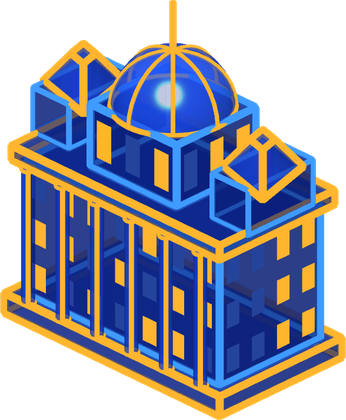
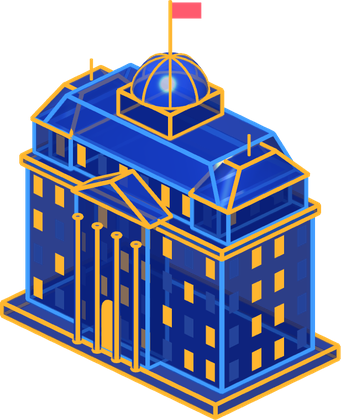
Plus « jeu » (5) : le Palace et le Prestige redessinés (#233)
Claude-Session: https://claude.ai/code/session_01VVBMmn3XW4qQHJryVXWiii

diff --git a/tools/batiments/batiments.html b/tools/batiments/batiments.html
@@ -25,7 +25,7 @@ function fenetres(g,w,h,d,x,y,z,cols,rangs,o){ o=o||{}; const fw=(o.fw||0.5)*w/c
     const px=x-w/2+(c+0.5)*w/cols, py=y+(r+0.5)*h/rangs; const f=new THREE.Mesh(new THREE.PlaneGeometry(fw,fh),mat); f.position.set(px,py,z+d/2+0.012); g.add(f); }
   const cz=Math.max(1,Math.round(cols*d/w));
   for(let r=0;r<rangs;r++) for(let c=0;c<cz;c++){ const on=((r*5+c*4+1+(o.g||0))%5)<2; const f=new THREE.Mesh(new THREE.PlaneGeometry((o.fw||0.5)*d/cz,fh),lum(on?(o.c||OR):0x24439A)); f.rotation.y=Math.PI/2; f.position.set(x+w/2+0.012,y+(r+0.5)*h/rangs,z-d/2+(c+0.5)*d/cz); g.add(f); } }
-function toit4(g,w,d,h,x,y,z,haut,o){ o=o||{}; const geo=new THREE.CylinderGeometry((haut||0.001)*Math.SQRT1_2,Math.SQRT1_2,h,4,1); const m=new THREE.Mesh(geo,verre(o.verre||0x1B3F9A,o.op||0.7)); m.rotation.y=Math.PI/4; m.scale.set(w,1,d); m.position.set(x,y+h/2,z); g.add(m); aretes(g,m,o.c,o.t); }
+function toit4(g,w,d,h,x,y,z,haut,o){ o=o||{}; const geo=new THREE.CylinderGeometry((haut||0.001)*Math.SQRT1_2,Math.SQRT1_2,h,4,1); geo.rotateY(Math.PI/4); const m=new THREE.Mesh(geo,verre(o.verre||0x1B3F9A,o.op||0.7)); m.scale.set(w,1,d); m.position.set(x,y+h/2,z); g.add(m); aretes(g,m,o.c,o.t); }
 function pignon(g,w,d,h,x,y,z,o){ o=o||{}; const s=new THREE.Shape(); s.moveTo(-w/2,0); s.lineTo(w/2,0); s.lineTo(0,h); s.closePath(); const geo=new THREE.ExtrudeGeometry(s,{depth:d,bevelEnabled:false}); geo.translate(0,0,-d/2); const m=new THREE.Mesh(geo,verre(0x1B3F9A,0.7)); m.position.set(x,y,z); g.add(m); aretes(g,m,o.c,o.t); }
 function colonne(g,r,h,x,y,z,c){ const m=new THREE.Mesh(new THREE.CylinderGeometry(r,r,h,10),verre(0x1E4AB0,0.75)); m.position.set(x,y+h/2,z); g.add(m); for(const yy of [y,y+h]){ const a=new THREE.Mesh(new THREE.TorusGeometry(r,0.02,6,16),lum(c||NEON)); a.rotation.x=Math.PI/2; a.position.set(x,yy,z); g.add(a); } trait(g,new THREE.Vector3(x+r*0.7,y,z+r*0.7),new THREE.Vector3(x+r*0.7,y+h,z+r*0.7),c||NEON,0.018); }
 function socle(g,r,c){ if(Q.has('alpha')) return; const m=new THREE.Mesh(new THREE.CylinderGeometry(r,r*1.04,0.16,48),new THREE.MeshPhongMaterial({color:0x0C1B4D,emissive:0x0A1A55,emissiveIntensity:0.6,shininess:60})); m.position.y=-0.08; g.add(m);
@@ -40,23 +40,33 @@ const BATIS=[
  g=>{ socle(g,1.6); bloc(g,1.7,2.3,1.3,0,0,0); for(let i=1;i<5;i++){ const y=i*2.3/5; trait(g,V(-.85,y,.65),V(.85,y,.65),NEON,0.016); trait(g,V(.85,y,.65),V(.85,y,-.65),NEON,0.016); } fenetres(g,1.7,2.3,1.3,0,0,0,4,5,{fw:.5,fh:.5}); toit4(g,1.78,1.38,.5,0,2.3,0,.72); bloc(g,.16,.3,.16,-.45,2.8,0,{t:0.016}); bloc(g,.16,.3,.16,.45,2.8,0,{t:0.016}); },
  g=>{ socle(g,1.6); bloc(g,1.25,3.3,1.25,0,0,0); fenetres(g,1.25,3.3,1.25,0,0,0,3,9,{fw:.62,fh:.55,g:2}); bloc(g,.9,.7,.9,0,3.3,0); fenetres(g,.9,.7,.9,0,3.3,0,2,2,{fw:.6,fh:.5}); trait(g,V(0,4,0),V(0,4.8,0),NEON,0.025); const b=new THREE.Mesh(new THREE.SphereGeometry(.07,10,10),lum(0xFF5A6E)); b.position.set(0,4.82,0); g.add(b); },
  g=>{ socle(g,1.7); bloc(g,1.5,2.2,1.5,0,0,0); fenetres(g,1.5,2.2,1.5,0,0,0,4,7,{fw:.6,fh:.5,g:1}); bloc(g,1.15,1.9,1.15,0,2.2,0); fenetres(g,1.15,1.9,1.15,0,2.2,0,3,6,{fw:.6,fh:.5,g:3}); bloc(g,.8,1.3,.8,0,4.1,0); fenetres(g,.8,1.3,.8,0,4.1,0,2,4,{fw:.6,fh:.5,g:2}); toit4(g,.8,.8,.5,0,5.4,0,.25,{c:OR}); trait(g,V(0,5.9,0),V(0,6.9,0),OR,0.028); },
- g=>{ socle(g,2.0,OR); bloc(g,3.0,.22,1.7,0,0,0,{c:OR}); bloc(g,2.7,1.5,1.4,0,.22,0); fenetres(g,2.7,1.5,1.4,0,.22,0,7,3,{fw:.5,fh:.55}); for(let i=0;i<6;i++) colonne(g,.07,1.5,-1.2+i*.48,.22,.82,OR);
-      bloc(g,2.9,.16,1.6,0,1.72,0,{c:OR}); bloc(g,1.2,.7,1.1,0,1.88,0); fenetres(g,1.2,.7,1.1,0,1.88,0,3,1,{fw:.5,fh:.6});
-      const d=new THREE.Mesh(new THREE.SphereGeometry(.62,24,12,0,Math.PI*2,0,Math.PI/2),verre(0x2456C8,0.7)); d.position.set(0,2.58,0); g.add(d); for(let k=0;k<8;k++){ const a=k*Math.PI/4; const pts=[]; for(let s=0;s<=8;s++){ const t=s/8*Math.PI/2; pts.push(V(Math.cos(a)*.62*Math.sin(t),2.58+.62*Math.cos(t),Math.sin(a)*.62*Math.sin(t))); } for(let s=0;s<8;s++) trait(g,pts[s],pts[s+1],OR,0.016); }
-      const an=new THREE.Mesh(new THREE.TorusGeometry(.62,.03,8,48),lum(OR)); an.rotation.x=Math.PI/2; an.position.y=2.58; g.add(an); trait(g,V(0,3.2,0),V(0,3.75,0),OR,0.025);
-      for(const x of [-1.25,1.25]){ bloc(g,.5,.5,.9,x,1.88,0,{t:0.02}); toit4(g,.56,.96,.3,x,2.38,0,.3,{c:OR}); } },
- g=>{ socle(g,2.1,OR); const arc=[0xFF4D6D,0xFF9F1C,0xFFE14D,0x3DDC84,0x2F9BFF,0x8E5CFF,0xFF4DC4];
-      bloc(g,3.2,.2,2.2,0,0,0,{c:arc[0]}); bloc(g,2.9,.2,1.9,0,.2,0,{c:arc[1]}); bloc(g,2.6,.2,1.6,0,.4,0,{c:arc[2]});
-      bloc(g,1.9,1.5,1.0,0,.6,0,{op:.5,c:arc[4]}); fenetres(g,1.9,1.5,1.0,0,.6,0,5,1,{fw:.3,fh:.75});
-      for(let i=0;i<7;i++) colonne(g,.085,1.5,-1.14+i*.38,.6,.68,arc[i]); for(let i=0;i<3;i++){ colonne(g,.085,1.5,1.2,.6,.34-i*.34,arc[(i+3)%7]); }
-      bloc(g,2.7,.2,1.7,0,2.1,0,{c:arc[5]}); pignon(g,2.7,1.7,.7,0,2.3,0,{c:arc[6]});
-      const l=new THREE.Mesh(new THREE.TorusGeometry(.26,.035,8,32,Math.PI*1.5),lum(OR)); l.position.set(0,2.62,.86); l.rotation.z=Math.PI*1.25; g.add(l); const s=new THREE.Mesh(new THREE.OctahedronGeometry(.16),lum(OR)); s.position.set(0,3.3,0); g.add(s); trait(g,V(0,3,0),V(0,3.2,0),OR,0.02); },
+ g=>{ socle(g,2.0,OR); const F=0.017;   // le Palace : un grand hôtel, avant-corps à colonnes, mansarde, dôme et drapeau (traits fins)
+      bloc(g,3.3,.16,1.9,0,0,0,{c:OR,t:F}); bloc(g,3.0,1.7,1.4,0,.16,0,{t:0.02}); fenetres(g,3.0,1.7,1.4,0,.16,0,9,4,{fw:.42,fh:.55,g:1});
+      bloc(g,3.1,.1,1.5,0,1.86,0,{c:OR,t:F});
+      bloc(g,1.1,1.8,.3,0,.16,.75,{t:F,op:.5}); for(let i=0;i<4;i++) colonne(g,.045,1.55,-.45+i*.3,.16,.98,OR);
+      const porte=new THREE.Mesh(new THREE.PlaneGeometry(.3,.5),lum(OR)); porte.position.set(0,.41,.915); g.add(porte); const arche=new THREE.Mesh(new THREE.CircleGeometry(.15,16,0,Math.PI),lum(OR)); arche.position.set(0,.66,.915); g.add(arche);
+      pignon(g,1.2,.34,.34,0,1.96,.75,{c:OR,t:F});
+      bloc(g,2.6,.42,1.1,0,1.96,0,{t:F}); fenetres(g,2.6,.42,1.1,0,1.96,0,8,1,{fw:.4,fh:.6,g:2}); toit4(g,2.7,1.2,.4,0,2.38,0,.82,{t:F});
+      bloc(g,.8,.3,.8,0,2.78,0,{t:F,c:OR});
+      const d=new THREE.Mesh(new THREE.SphereGeometry(.42,24,12,0,Math.PI*2,0,Math.PI/2),verre(0x2456C8,0.7)); d.position.set(0,3.08,0); g.add(d); for(let k=0;k<8;k++){ const a=k*Math.PI/4; const pts=[]; for(let q=0;q<=8;q++){ const t=q/8*Math.PI/2; pts.push(V(Math.cos(a)*.42*Math.sin(t),3.08+.42*Math.cos(t),Math.sin(a)*.42*Math.sin(t))); } for(let q=0;q<8;q++) trait(g,pts[q],pts[q+1],OR,0.011); }
+      const an=new THREE.Mesh(new THREE.TorusGeometry(.42,.02,8,48),lum(OR)); an.rotation.x=Math.PI/2; an.position.y=3.08; g.add(an);
+      trait(g,V(0,3.5,0),V(0,4.2,0),OR,0.014); const dr=new THREE.Mesh(new THREE.PlaneGeometry(.34,.2),new THREE.MeshBasicMaterial({color:0xFF5A6E,side:THREE.DoubleSide})); dr.position.set(.12,4.08,-.12); dr.rotation.y=Math.PI/4; g.add(dr);
+      for(const x of [-1.22,1.22]){ bloc(g,.56,.42,1.2,x,1.96,0,{t:F}); toit4(g,.6,1.24,.36,x,2.38,0,.45,{c:OR,t:F}); trait(g,V(x,2.74,0),V(x,3.0,0),OR,0.012); } },
+ g=>{ socle(g,2.1,OR); const F=0.018, arc=[0xFF4D6D,0xFF9F1C,0xFFE14D,0x3DDC84,0x2F9BFF,0x8E5CFF,0xFF4DC4];   // le Prestige : un temple aux néons arc-en-ciel, couronne de laurier d'or
+      bloc(g,3.3,.16,2.3,0,0,0,{c:arc[0],t:F}); bloc(g,3.0,.16,2.0,0,.16,0,{c:arc[1],t:F}); bloc(g,2.7,.16,1.7,0,.32,0,{c:arc[2],t:F});
+      bloc(g,1.9,1.6,1.0,0,.48,0,{op:.5,c:arc[4],t:F}); fenetres(g,1.9,1.6,1.0,0,.48,0,5,1,{fw:.28,fh:.7});
+      const porte=new THREE.Mesh(new THREE.PlaneGeometry(.34,1.0),lum(OR)); porte.position.set(0,.98,.515); g.add(porte);
+      for(let i=0;i<6;i++) colonne(g,.075,1.6,-1.15+i*.46,.48,.7,arc[i]); for(let i=1;i<4;i++) colonne(g,.075,1.6,1.15,.48,.7-i*.42,arc[(i+3)%7]);
+      bloc(g,2.7,.18,1.75,0,2.08,0,{c:arc[5],t:F}); pignon(g,2.7,1.75,.68,0,2.26,0,{c:arc[6],t:F});
+      const l=new THREE.Mesh(new THREE.TorusGeometry(.2,.022,8,32,Math.PI*1.7),lum(OR)); l.position.set(0,2.5,.885); l.rotation.z=Math.PI*0.65; g.add(l); const c0=new THREE.Mesh(new THREE.CircleGeometry(.07,12),lum(0xFFE9A8)); c0.position.set(0,2.5,.885); g.add(c0);
+      trait(g,V(0,2.94,0),V(0,3.2,0),OR,0.014); const st=new THREE.Mesh(new THREE.OctahedronGeometry(.15),lum(OR)); st.scale.set(1,1.5,1); st.position.set(0,3.36,0); g.add(st);
+      for(const x of [-1.35,1.35]) for(const z of [-.87,.87]){ const b=new THREE.Mesh(new THREE.SphereGeometry(.06,10,10),lum(OR)); b.position.set(x,2.32,z); g.add(b); } },
 ];
 scene.add(new THREE.AmbientLight(0x6F98FF,0.55)); const dl=new THREE.DirectionalLight(0xBFD8FF,0.7); dl.position.set(4,8,6); scene.add(dl);
 const liste=SEUL>=0?[SEUL]:[0,1,2,3,4,5,6], PAS=4.6;
 liste.forEach((n,i)=>{ const g=new THREE.Group(); BATIS[n](g); const k=(i-(liste.length-1)/2)*PAS*Math.SQRT1_2; g.position.set(k,0,-k); scene.add(g); });
 const larg=SEUL>=0?5.6:PAS*7+0.6, haut=larg*H/W;
-const cam=new THREE.OrthographicCamera(-larg/2,larg/2,haut/2,-haut/2,-50,100); const cible=V(0,SEUL>=0?[.5,1,1.6,2.3,3.2,1.9,1.8][SEUL]:2.9,0); cam.position.copy(cible).add(V(8,6.2,8)); cam.lookAt(cible);
+const cam=new THREE.OrthographicCamera(-larg/2,larg/2,haut/2,-haut/2,-50,100); const cible=V(0,SEUL>=0?[.5,1,1.6,2.3,3.2,2.1,1.8][SEUL]:2.9,0); cam.position.copy(cible).add(V(8,6.2,8)); cam.lookAt(cible);
 if(SEUL>=0 && ALPHA){ scene.updateMatrixWorld(true); const b=new THREE.Box3().setFromObject(scene.children[scene.children.length-1]); cam.updateMatrixWorld(true); const inv=cam.matrixWorldInverse; let x0=1e9,x1=-1e9,y0=1e9,y1=-1e9; for(const X of [b.min.x,b.max.x]) for(const Y of [b.min.y,b.max.y]) for(const Z of [b.min.z,b.max.z]){ const p=V(X,Y,Z).applyMatrix4(inv); x0=Math.min(x0,p.x); x1=Math.max(x1,p.x); y0=Math.min(y0,p.y); y1=Math.max(y1,p.y); }
   const c=Math.max(x1-x0,y1-y0)*0.56, cx=(x0+x1)/2, cy=(y0+y1)/2; cam.left=cx-c; cam.right=cx+c; cam.top=cy+c; cam.bottom=cy-c; cam.updateProjectionMatrix(); ren.render(scene,cam); window.PRET=true; }
 else {

diff --git a/PROGRESS.md b/PROGRESS.md
@@ -299,6 +299,7 @@
 - 18 nov. 2026 (plus « jeu », 2) : **la récolte mise en scène** (Gautier, sur son téléphone : « on fait déjà tout ce qui est facile », sans outil externe). Récolter ne lance plus des confettis au milieu de l'écran : **les pièces jaillissent de l'endroit touché et volent jusqu'à la bourse affichée** (celle de l'agence, de l'accueil ou de la barre du haut), qui bat à chaque pièce reçue, avec un petit tintement qui monte (`volPieces`, `ciblePieces`, `sonPieces`, `piecesEnVol` ; transformations et opacité seulement ; mouvements réduits : l'ancienne fête). La fenêtre de récolte du retour montre **une petite ville : mes cinq bâtiments les plus hauts**, une pièce qui flotte au-dessus de chacun (`villeRecolte`, images de `imageBati`), et le montant qui grimpe de 0 au total. Vérifié en captures 390 et 320 px (démo) ; la fluidité sur un vrai téléphone reste à confirmer par Gautier.
 - 18 nov. 2026 (plus « jeu », 3) : **les en-têtes illustrés** (Gautier : « le vol des pièces est OK, tu peux passer à la suite »). Le titre de trois écrans porte une petite scène de bâtiments (`sceneEntete(cle)`, classe `entete` du `h1`, images de `imageBati`) : **Patrimoine** montre mes quatre bâtiments les plus hauts (la scène grandit avec le joueur), **Enchères** un Prestige sous un halo arc-en-ciel, **Communes** la mairie entre des maisons ; un trait de néon sous le titre, le bouton d'action (Classements, compte à rebours) passe en haut à droite. En 320 px, un bâtiment de moins. Menus clairs de secours : sans scène. Vérifié en captures 390 et 320 px.
 - 18 nov. 2026 (plus « jeu », 4) : **les médailles et les embellissements des communes dessinés** (Gautier : « vas-y »). Les émojis du téléphone (🥇🥈🥉 des classements et podiums ; 🌳🏮🌷⛲🎶 des travaux des communes), différents d'un appareil à l'autre, sont remplacés à l'affichage par de petits dessins du jeu en couleur (`DESSINS` et `EMOJI_DESSIN` de `src/icones.js`, classe `ico-svg dessin` ; aplats sans dégradé). Le code continue d'écrire les émojis. Un test vérifie que chaque émoji a son dessin. Vérifié en captures (classements, commune ouverte).
+- 18 nov. 2026 (plus « jeu », 5) : **le Palace et le Prestige redessinés, plus fins** (Gautier : « vas-y »). Le Palace devient un grand hôtel : avant-corps à colonnes et fronton, porte en arche, étage de mansarde, pavillons d'angle, dôme d'or et drapeau ; le Prestige garde son temple aux néons arc-en-ciel, avec des traits plus fins, une porte d'or, une couronne de laurier au fronton et une flèche. Dans `tools/batiments/batiments.html`, `toit4` tourne maintenant sa forme (et non l'objet) : un toit rectangulaire ne se déforme plus. Seules les images `palace.png` et `prestige.png` ont été refaites.
 
 
 - 18 nov. 2026 (menus) : **les menus « nuit néon » sont adoptés** (Gautier, après l'essai sur son téléphone : « ok garde ») et deviennent le style par défaut : la classe `nuit` est posée sur `<html>` sauf avec `?menus=clair` (secours, pour l'onglet). Écran de chargement et écran de voyage passés en nuit. Vérifié sur captures en 390 et 320 px ; sur ordinateur, seule la carte ouverte a pu être vue (les tuiles de la carte ne se chargeaient pas dans l'espace de travail). Pas vus : les écrans de connexion et d'inscription (ils passent par les mêmes panneaux). Restent de la revue : collection en tête de Patrimoine, chiffres en double sur la carte ouverte, pavé des Enchères, émojis (avatars, médailles, communes), carte de la ville, rond vide des miniatures.

diff --git a/docs/HISTORIQUE.md b/docs/HISTORIQUE.md
@@ -422,6 +422,7 @@ Puis une PR par étape, fusionnée en squash :
 | #230 | 18/11 | Plus « jeu » (2) : la récolte mise en scène (les pièces volent jusqu'à la bourse, petite ville de mes bâtiments dans la fenêtre de récolte) |
 | #231 | 18/11 | Plus « jeu » (3) : les en-têtes illustrés (Patrimoine : mes bâtiments ; Enchères : le Prestige ; Communes : la mairie) |
 | #232 | 18/11 | Plus « jeu » (4) : médailles des classements et embellissements des communes dessinés en couleur (plus d'émojis du téléphone) |
+| #233 | 18/11 | Plus « jeu » (5) : le Palace (grand hôtel à dôme) et le Prestige (temple arc-en-ciel) redessinés, traits plus fins |
 | #200 | 16/11 | Prototype du booster validé par Gautier : brillance moyenne fixée, boutons de réglage retirés |
 | #199 | 16/11 | Prototype du booster : une ligne de toits en néon sur le booster du jour, à la place de la maison |
 | #198 | 16/11 | Prototype du booster : moins brillant, lettres cernées, trois niveaux de brillance à choisir |
